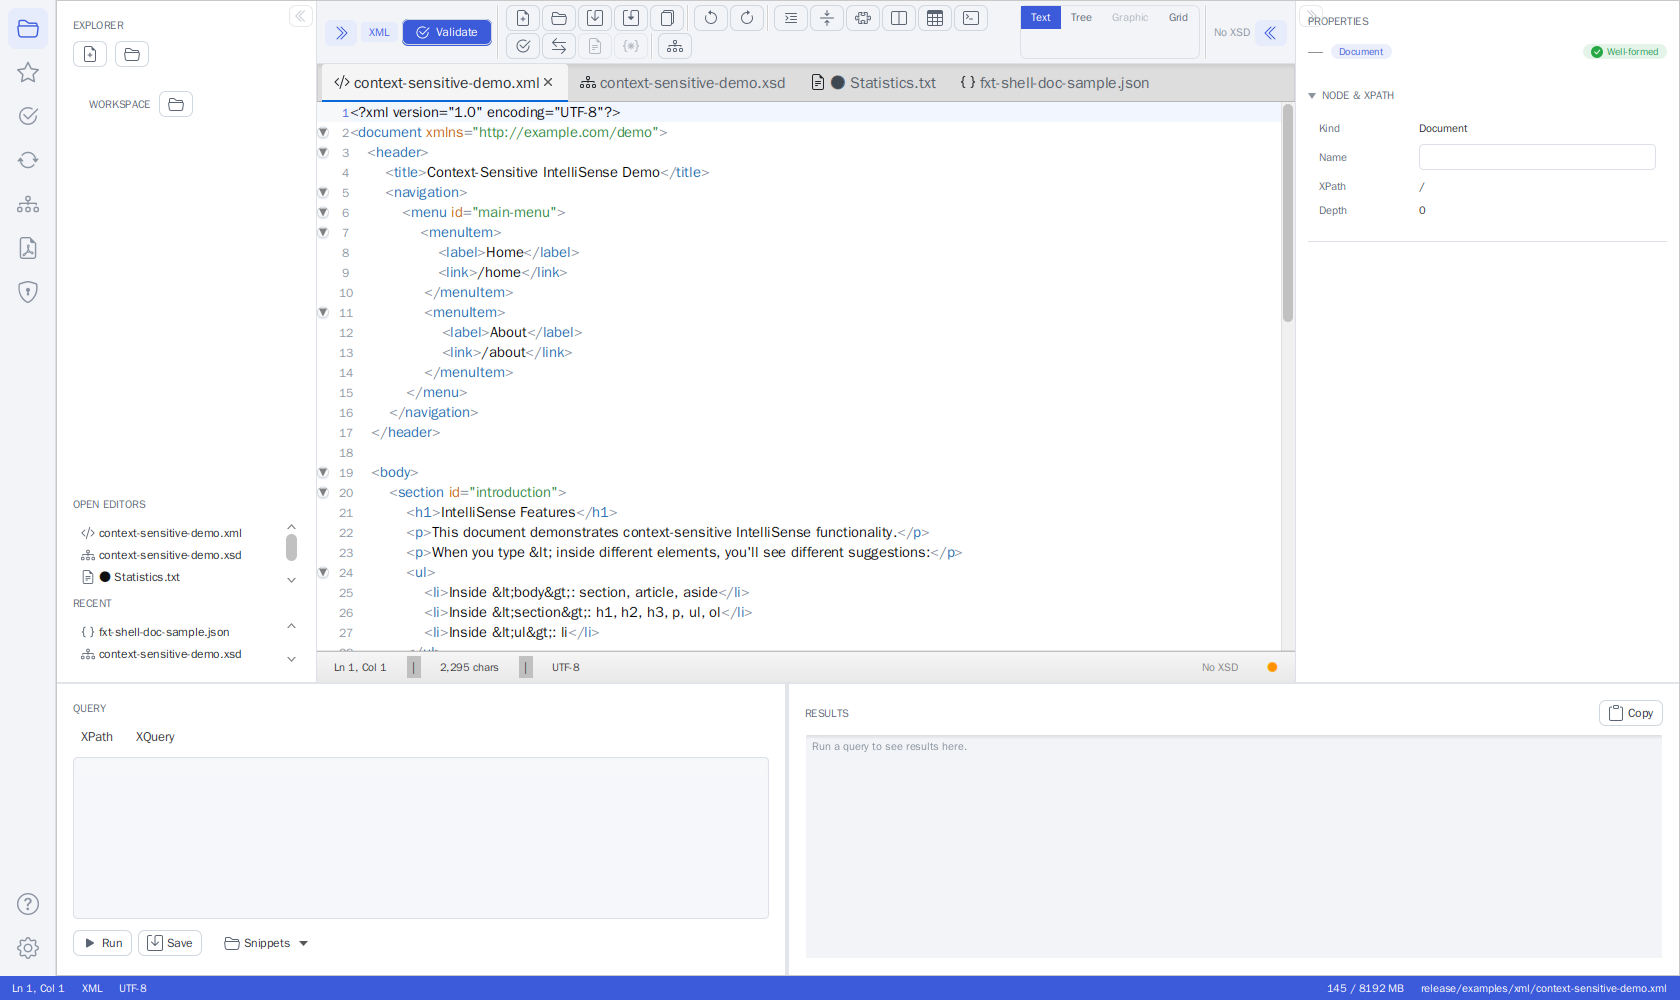
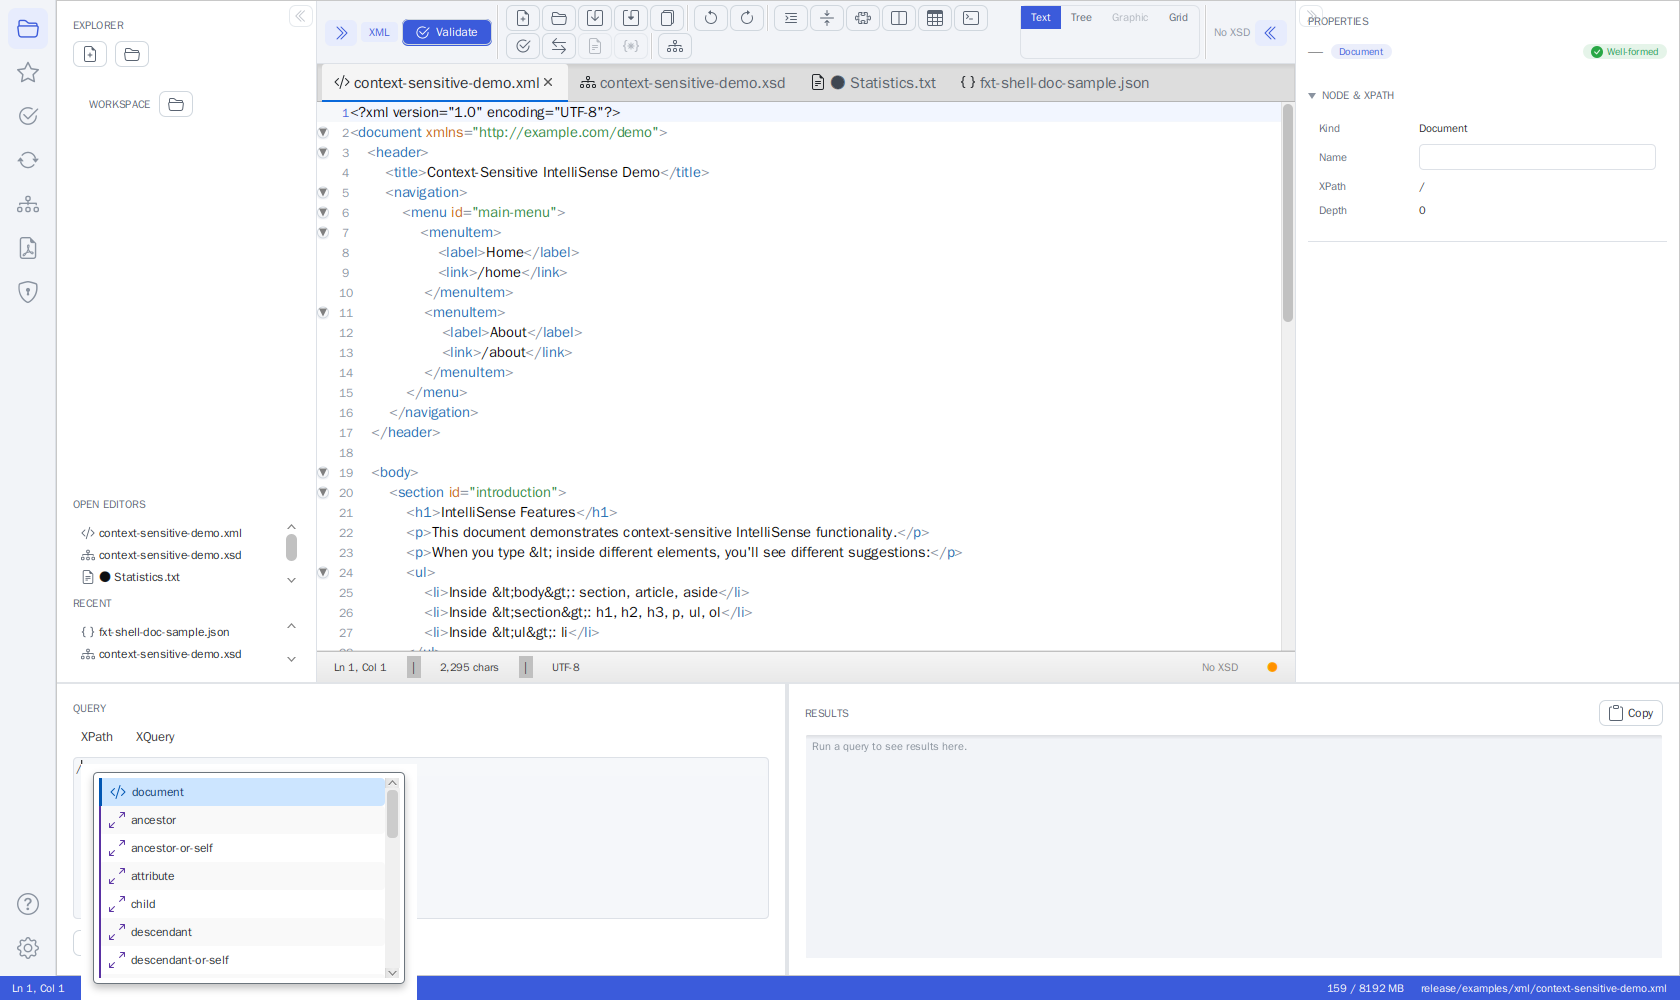
docs(shell): Query Console screenshot now shows the IntelliSense popup
The shell screenshot generator captured FX node snapshots, which cannot
include popup windows. Added a java.awt.Robot full-screen capture path
(shotScreen) used only for the Query Console shot: it focuses the XPath
input, types '/' to open the completion popup, waits for it to render, and
grabs the screen — so the IntelliSense suggestion list is visible.

Run under an xvfb screen sized to the window so the popup stays on-screen:
  xvfb-run -a -s "-screen 0 1680x1000x24" ./gradlew docScreenshots

Changed region(s): [[0.031, 0.868, 0.2476, 1.0], [0.031, 0.775, 0.2476, 0.837], [0.0929, 0.837, 0.1238, 0.868]]

diff --git a/src/test/java/org/fxt/freexmltoolkit/screenshots/ShellDocScreenshotGenerator.java b/src/test/java/org/fxt/freexmltoolkit/screenshots/ShellDocScreenshotGenerator.java
@@ -131,14 +131,34 @@ class ShellDocScreenshotGenerator {
         shot("unified-shell-json-tree");
 
         // --- Query Console docked at the bottom (XPath/XQuery against the open document) ---
+        // Captured via a real screen grab (java.awt.Robot) so the IntelliSense completion
+        // popup — a separate top-level window that an FX node snapshot cannot include — is
+        // visible in the screenshot.
         if (xml.exists()) {
             onFx(() -> shell.getSelectionModel().select(Activity.EXPLORER));
             onFx(() -> host.openFile(xml.toPath()));
             settle();
             onFx(() -> host.setActiveViewMode(ViewMode.TEXT));
             onFx(shell::toggleQueryConsole);
+            settle(600);
+            try {
+                // Focus the visible XPath input and type '/' to open the completion popup.
+                Node xpathInput = robot.lookup(".fxt-query-input").match(Node::isVisible).query();
+                robot.clickOn(xpathInput);
+                settle(200);
+                robot.write("/");
+                // Wait until the popup has rendered as a real window.
+                WaitForAsyncUtils.waitFor(5, TimeUnit.SECONDS,
+                        () -> robot.lookup(".intellisense-list").tryQuery().isPresent());
+                settle(500);
+                shotScreen("unified-shell-query-console");
+                robot.push(javafx.scene.input.KeyCode.ESCAPE);
+            } catch (Exception e) {
+                System.out.println("[shell-screenshot] IntelliSense popup capture failed, "
+                        + "falling back to a node snapshot: " + e);
+                shot("unified-shell-query-console");
+            }
             settle();
-            shot("unified-shell-query-console");
             onFx(shell::toggleQueryConsole); // hide again so later shots are unaffected
             settle();
         }
@@ -190,5 +210,23 @@ class ShellDocScreenshotGenerator {
         ImageIO.write(SwingFXUtils.fromFXImage(img, null), "png", out);
         System.out.println("[shell-screenshot] wrote " + out.getAbsolutePath()
                 + " (" + (int) img.getWidth() + "x" + (int) img.getHeight() + ")");
+    }
+
+    /**
+     * Captures the whole X screen with {@link java.awt.Robot} (not an FX node snapshot), so any
+     * popup windows that are open — e.g. the IntelliSense completion list — appear in the image.
+     * Run the {@code docScreenshots} task under an xvfb screen sized to the window (1680x1000)
+     * so the captured screen is exactly the app.
+     */
+    private void shotScreen(String name) throws Exception {
+        settle(300);
+        java.awt.Dimension screen = java.awt.Toolkit.getDefaultToolkit().getScreenSize();
+        java.awt.Robot awt = new java.awt.Robot();
+        java.awt.image.BufferedImage img = awt.createScreenCapture(
+                new java.awt.Rectangle(0, 0, screen.width, screen.height));
+        File out = new File(IMG_DIR, name + ".png");
+        ImageIO.write(img, "png", out);
+        System.out.println("[shell-screenshot] (screen) wrote " + out.getAbsolutePath()
+                + " (" + img.getWidth() + "x" + img.getHeight() + ")");
     }
 }

diff --git a/docs/unified-shell.md b/docs/unified-shell.md
@@ -499,8 +499,9 @@ The **Query Console** is a panel that opens along the **bottom of the editor**. 
 document is currently active, so it is the fastest way to probe an XML or JSON file while you work.
 
 ![Query Console docked at the bottom of the editor](img/unified-shell-query-console.png)
-*The Query Console: query input with the XPath / XQuery mode toggle and Run on the left, the
-results pane with Copy on the right.*
+*The Query Console with IntelliSense: typing `/` in the XPath input opens the completion popup
+(document elements and axes). The mode toggle and Run are on the left, the results pane with
+Copy on the right.*
 
 ### Layout
 